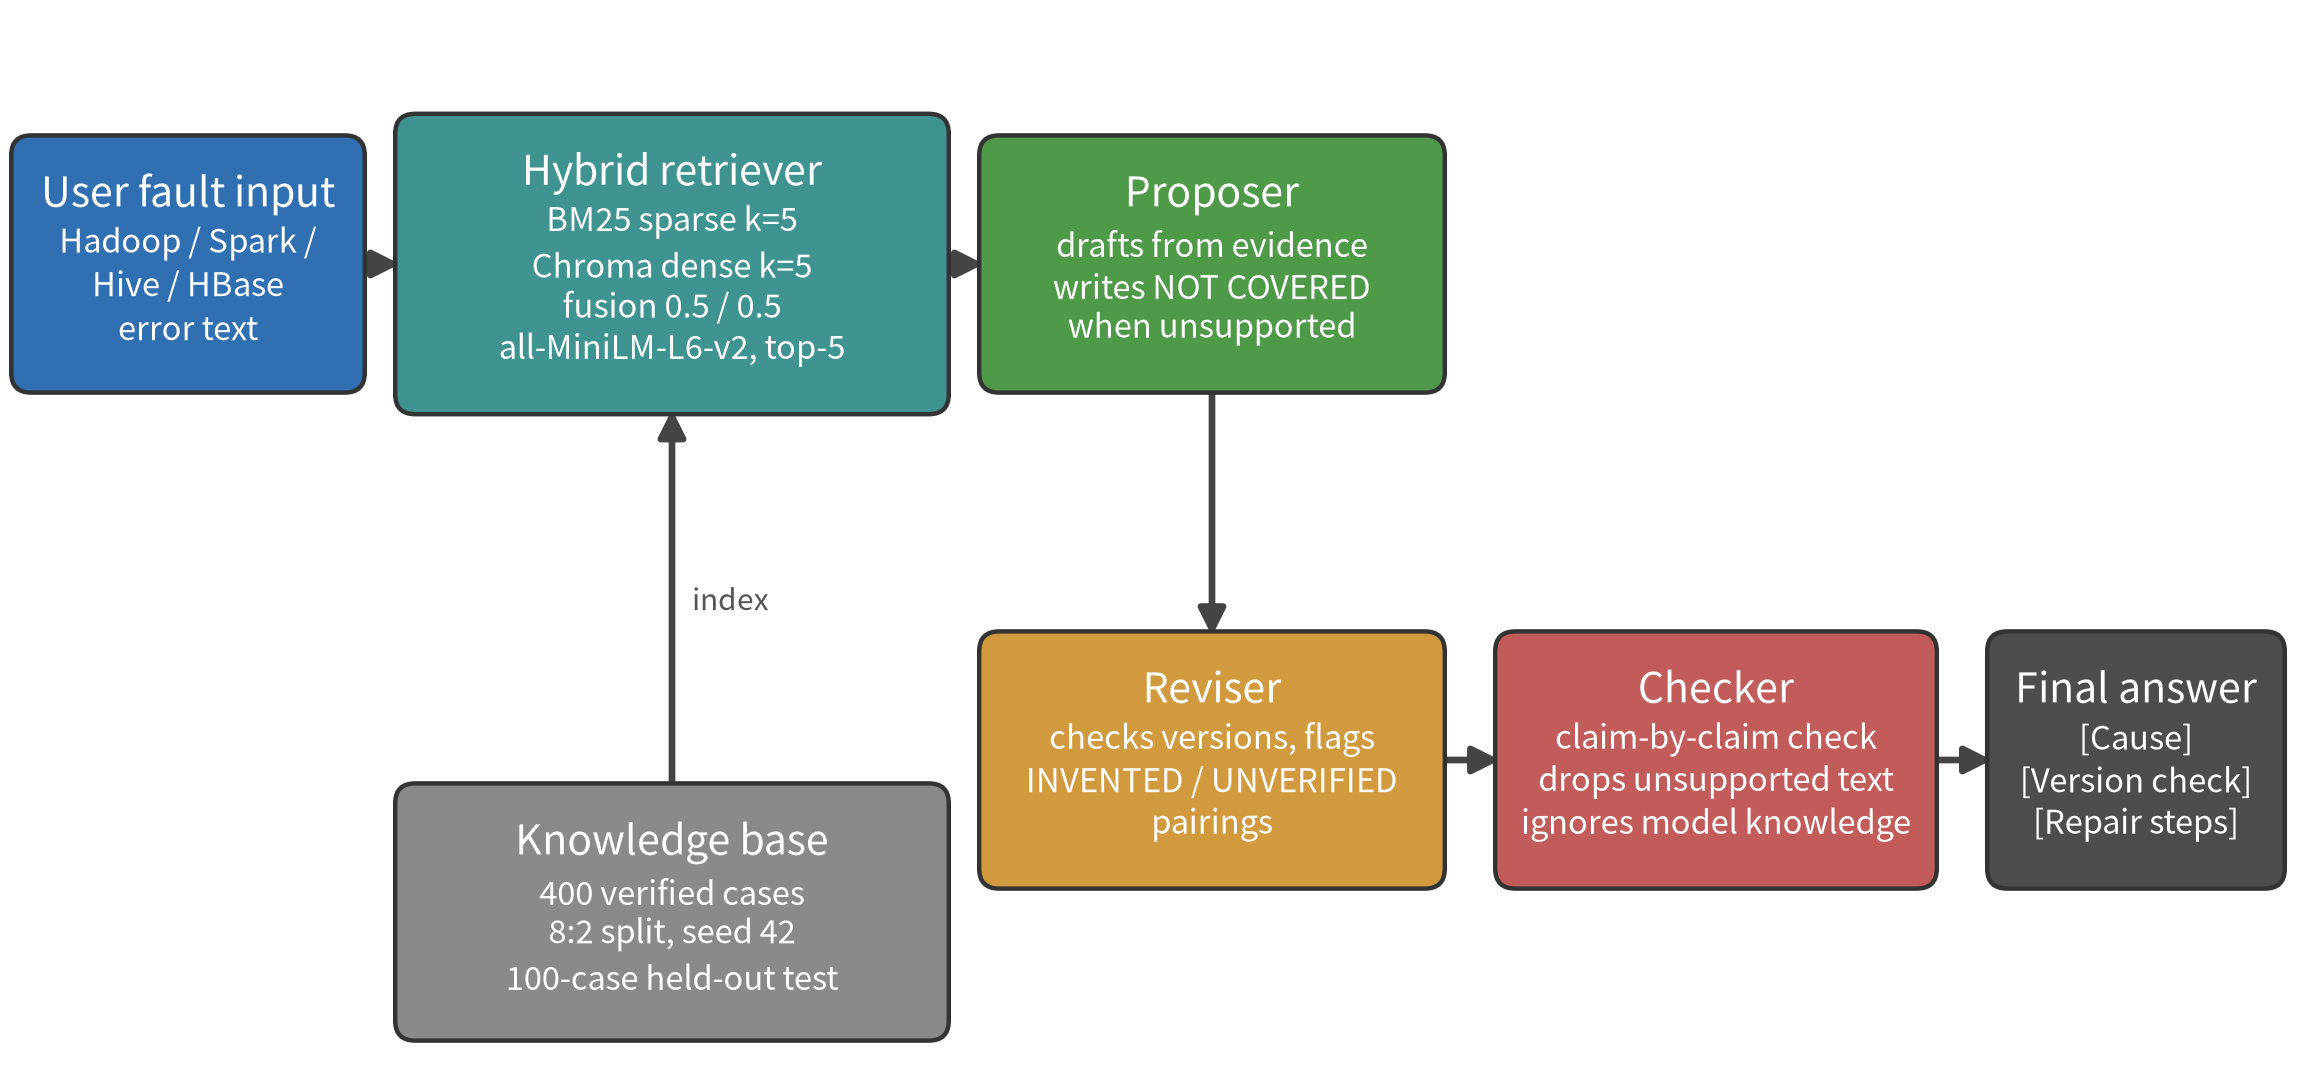
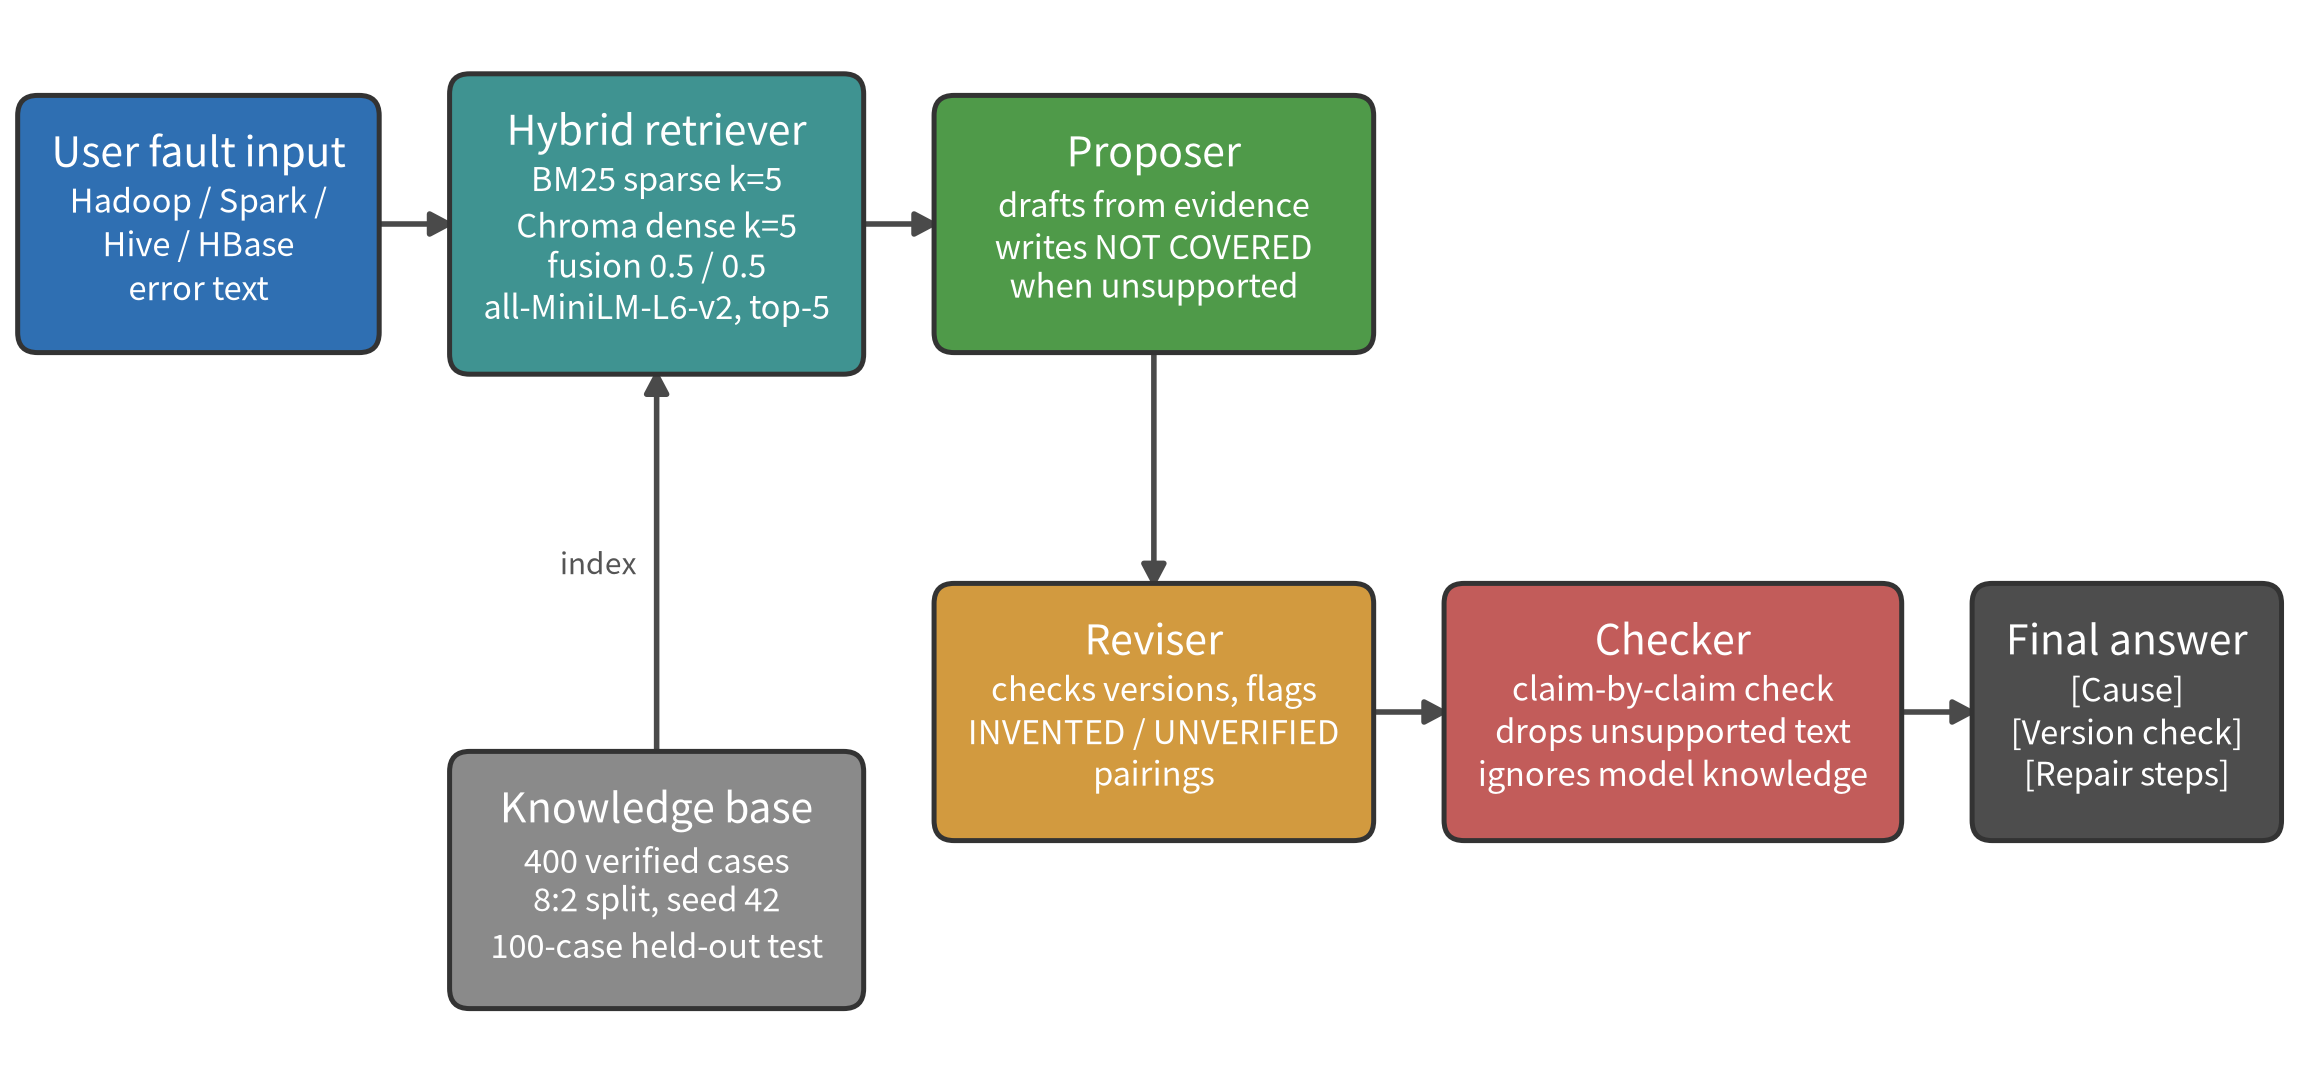
Add files via upload

Changed region(s): [[0.0, 0.0625, 1.0, 0.9688]]

diff --git a/src/make_figure1.py b/src/make_figure1.py
@@ -5,47 +5,75 @@ import matplotlib
 matplotlib.use("Agg")
 import matplotlib.pyplot as plt
 from matplotlib.patches import FancyBboxPatch, FancyArrowPatch
-plt.rcParams["font.family"]=["DejaVu Sans"]
-W,H=5.748,2.72
-fig=plt.figure(figsize=(W,H),dpi=400)
-ax=fig.add_axes([0,0,1,1]); ax.set_xlim(0,W); ax.set_ylim(0,H); ax.axis("off")
-FS_T,FS_B=7.4,5.9
-TITLE_H,PAD=0.10,0.075
-LINE=0.108
-def box(x,w,cy,fc,title,body):
-    n=body.count("\n")+1
-    h=PAD+TITLE_H+0.03+n*LINE+0.09
-    y0=cy-h/2
-    ax.add_patch(FancyBboxPatch((x,y0),w,h,boxstyle="round,pad=0.012,rounding_size=0.05",
-                 fc=fc,ec="#333333",lw=0.8,zorder=2))
-    ax.text(x+w/2,y0+h-PAD,title,ha="center",va="top",fontsize=FS_T,
-            fontweight="bold",color="white",zorder=3)
-    ax.text(x+w/2,y0+h-PAD-TITLE_H-0.03,body,ha="center",va="top",fontsize=FS_B,
-            color="white",linespacing=1.30,zorder=3)
-    return (x,y0,x+w,y0+h)
-def arrow(p1,p2):
-    ax.add_patch(FancyArrowPatch(p1,p2,arrowstyle="-|>",lw=1.2,color="#444444",
-                 mutation_scale=10,shrinkA=0,shrinkB=0,zorder=1))
+plt.rcParams["font.family"] = ["DejaVu Sans"]
+W, H = 5.748, 2.72
+fig = plt.figure(figsize=(W, H), dpi=400)
+ax = fig.add_axes([0, 0, 1, 1]); ax.set_xlim(0, W); ax.set_ylim(0, H); ax.axis("off")
+FS_T, FS_B = 7.4, 5.9
+TITLE_H, PAD, LINE, XPAD = 0.10, 0.075, 0.108, 0.145
+fig.canvas.draw(); inv = ax.transData.inverted()
+
+def tw(s, fs, bold=False):
+    t = ax.text(0, 0, s, fontsize=fs, fontweight="bold" if bold else "normal")
+    bb = t.get_window_extent(renderer=fig.canvas.get_renderer())
+    p0, p1 = inv.transform((bb.x0, bb.y0)), inv.transform((bb.x1, bb.y1))
+    t.remove(); return abs(p1[0] - p0[0])
+
+def need(title, body):
+    return max(tw(title, FS_T, True), max(tw(l, FS_B) for l in body.split("\n"))) + XPAD
+
+def box(x, w, cy, fc, title, body):
+    n = body.count("\n") + 1
+    h = PAD + TITLE_H + 0.03 + n * LINE + 0.09
+    y0 = cy - h / 2
+    ax.add_patch(FancyBboxPatch((x, y0), w, h, boxstyle="round,pad=0.012,rounding_size=0.05",
+                                fc=fc, ec="#333333", lw=0.9, zorder=2))
+    ax.text(x + w / 2, y0 + h - PAD, title, ha="center", va="top", fontsize=FS_T,
+            fontweight="bold", color="white", zorder=3)
+    ax.text(x + w / 2, y0 + h - PAD - TITLE_H - 0.03, body, ha="center", va="top", fontsize=FS_B,
+            color="white", linespacing=1.30, zorder=3)
+    return (x, y0, x + w, y0 + h)
+
+def arrow(p1, p2):
+    ax.add_patch(FancyArrowPatch(p1, p2, arrowstyle="-|>,head_length=3.4,head_width=1.8",
+                                 lw=1.0, color="#4a4a4a", shrinkA=0, shrinkB=0, zorder=1))
+
 C_IN="#2f6fb2"; C_RET="#3f9391"; C_PR="#4f9a49"; C_RV="#d29a3f"; C_CK="#c25c5a"; C_FIN="#4d4d4d"; C_KB="#8a8a8a"
-x_in,w_in=0.04,0.86
-x_rt,w_rt=1.00,1.36
-x_pr,w_pr=2.46,1.14
-x_ck,w_ck=3.75,1.08
-x_fn,w_fn=4.98,0.72
-CY_A,CY_B=2.06,0.82
-b_in=box(x_in,w_in,CY_A,C_IN,"User fault input","Hadoop / Spark /\nHive / HBase\nerror text")
-b_rt=box(x_rt,w_rt,CY_A,C_RET,"Hybrid retriever","BM25 sparse k=5\nChroma dense k=5\nfusion 0.5 / 0.5\nall-MiniLM-L6-v2, top-5")
-b_pr=box(x_pr,w_pr,CY_A,C_PR,"Proposer","drafts from evidence\nwrites NOT COVERED\nwhen unsupported")
-b_rv=box(x_pr,w_pr,CY_B,C_RV,"Reviser","checks versions, flags\nINVENTED / UNVERIFIED\npairings")
-b_ck=box(x_ck,w_ck,CY_B,C_CK,"Checker","claim-by-claim check\ndrops unsupported text\nignores model knowledge")
-b_fn=box(x_fn,w_fn,CY_B,C_FIN,"Final answer","[Cause]\n[Version check]\n[Repair steps]")
-b_kb=box(x_rt,w_rt,0.44,C_KB,"Knowledge base","400 verified cases\n8:2 split, seed 42\n100-case held-out test")
-arrow((b_in[2],CY_A),(b_rt[0],CY_A))
-arrow((b_rt[2],CY_A),(b_pr[0],CY_A))
-arrow((x_pr+w_pr/2,b_pr[1]),(x_pr+w_pr/2,b_rv[3]))
-arrow((b_rv[2],CY_B),(b_ck[0],CY_B))
-arrow((b_ck[2],CY_B),(b_fn[0],CY_B))
-arrow((x_rt+w_rt/2,b_kb[3]),(x_rt+w_rt/2,b_rt[1]))
-ax.text(x_rt+w_rt/2+0.05,(b_kb[3]+b_rt[1])/2,"index",ha="left",va="center",fontsize=5.4,color="#555555")
-fig.savefig("figures/fig1_system_architecture.png",dpi=400,facecolor="white")
+T_IN=("User fault input","Hadoop / Spark /\nHive / HBase\nerror text")
+T_RT=("Hybrid retriever","BM25 sparse k=5\nChroma dense k=5\nfusion 0.5 / 0.5\nall-MiniLM-L6-v2, top-5")
+T_KB=("Knowledge base","400 verified cases\n8:2 split, seed 42\n100-case held-out test")
+T_PR=("Proposer","drafts from evidence\nwrites NOT COVERED\nwhen unsupported")
+T_RV=("Reviser","checks versions, flags\nINVENTED / UNVERIFIED\npairings")
+T_CK=("Checker","claim-by-claim check\ndrops unsupported text\nignores model knowledge")
+T_FN=("Final answer","[Cause]\n[Version check]\n[Repair steps]")
+w_in = need(*T_IN)
+w_rt = max(need(*T_RT), need(*T_KB))
+w_pr = max(need(*T_PR), need(*T_RV))
+w_ck = need(*T_CK)
+w_fn = need(*T_FN)
+g = min(0.20, (W - (w_in + w_rt + w_pr + w_ck + w_fn)) / 4)
+tot = w_in + w_rt + w_pr + w_ck + w_fn + 4 * g
+x_in = (W - tot) / 2
+x_rt = x_in + w_in + g
+x_pr = x_rt + w_rt + g
+x_ck = x_pr + w_pr + g
+x_fn = x_ck + w_ck + g
+print("widths", [round(v,3) for v in (w_in,w_rt,w_pr,w_ck,w_fn)], "gap", round(g,3), "right edge", round(x_fn+w_fn,3))
+CY_A, CY_B = 2.16, 0.94
+b_in = box(x_in, w_in, CY_A, C_IN, *T_IN)
+b_rt = box(x_rt, w_rt, CY_A, C_RET, *T_RT)
+b_pr = box(x_pr, w_pr, CY_A, C_PR, *T_PR)
+b_rv = box(x_pr, w_pr, CY_B, C_RV, *T_RV)
+b_ck = box(x_ck, w_ck, CY_B, C_CK, *T_CK)
+b_fn = box(x_fn, w_fn, CY_B, C_FIN, *T_FN)
+b_kb = box(x_rt, w_rt, 0.52, C_KB, *T_KB)
+arrow((b_in[2], CY_A), (b_rt[0], CY_A))
+arrow((b_rt[2], CY_A), (b_pr[0], CY_A))
+arrow((x_pr + w_pr / 2, b_pr[1]), (x_pr + w_pr / 2, b_rv[3]))
+arrow((b_rv[2], CY_B), (b_ck[0], CY_B))
+arrow((b_ck[2], CY_B), (b_fn[0], CY_B))
+arrow((x_rt + w_rt / 2, b_kb[3]), (x_rt + w_rt / 2, b_rt[1]))
+ax.text(x_rt + w_rt / 2 - 0.05, (b_kb[3] + b_rt[1]) / 2, "index", ha="right", va="center",
+        fontsize=5.4, color="#555555", style="italic")
+fig.savefig("figures/fig1_system_architecture.png", dpi=400, facecolor="white")
 print("ok", W, H)
